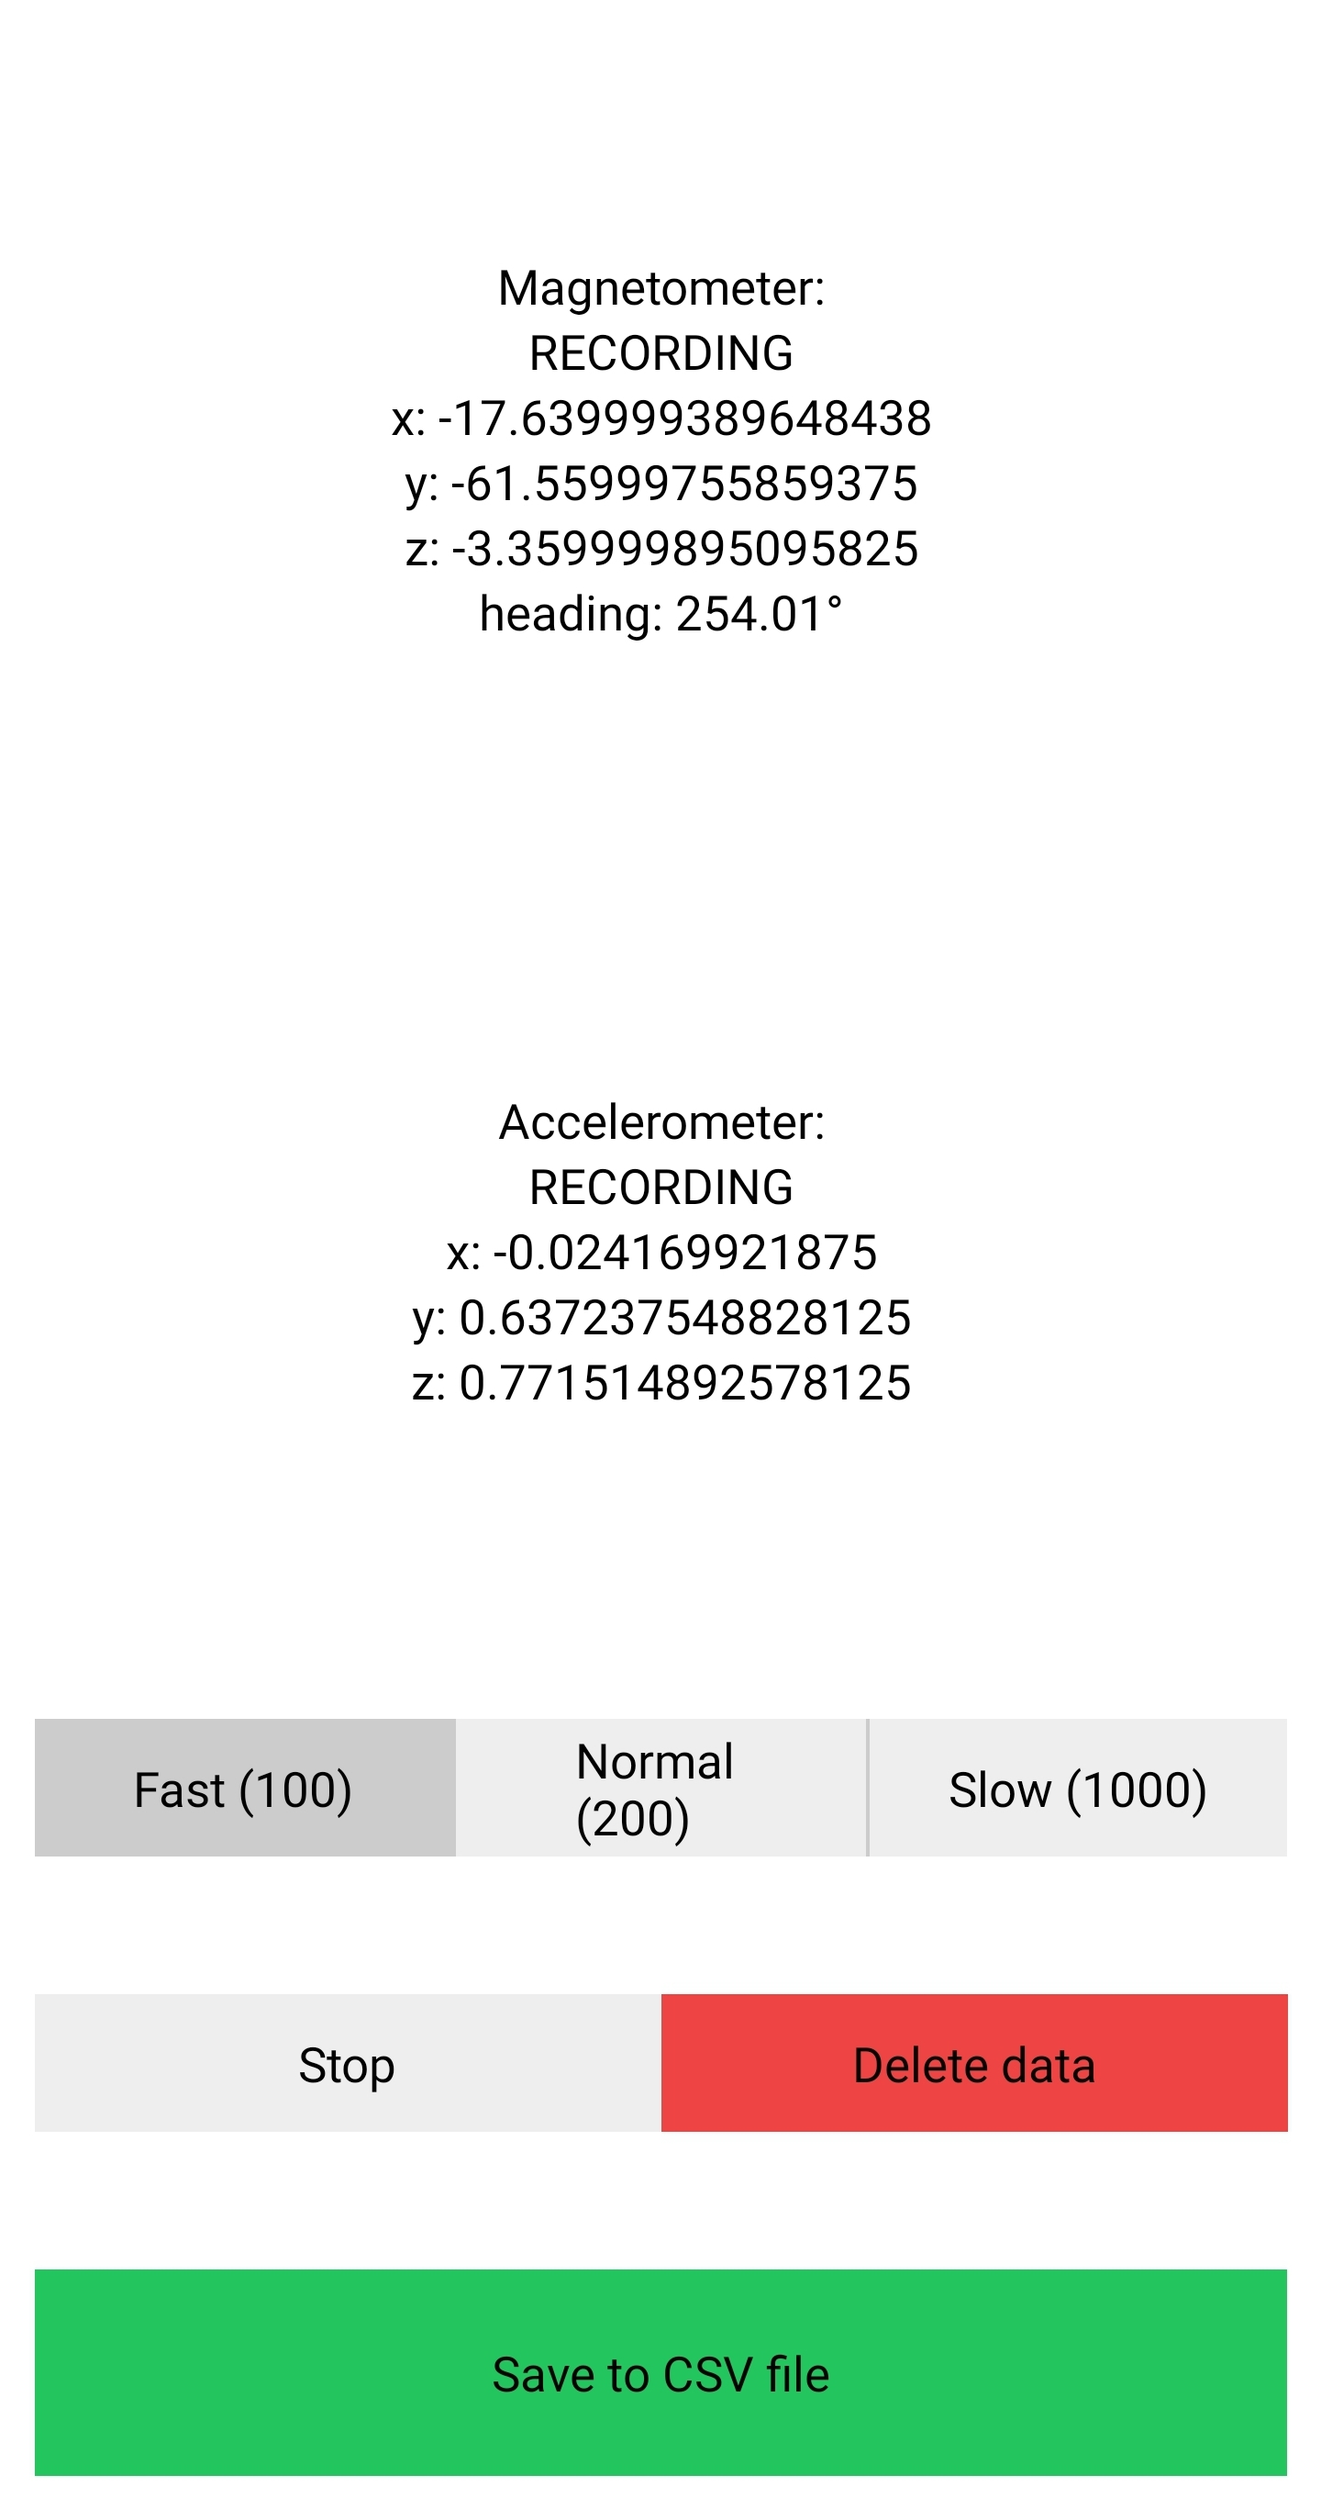
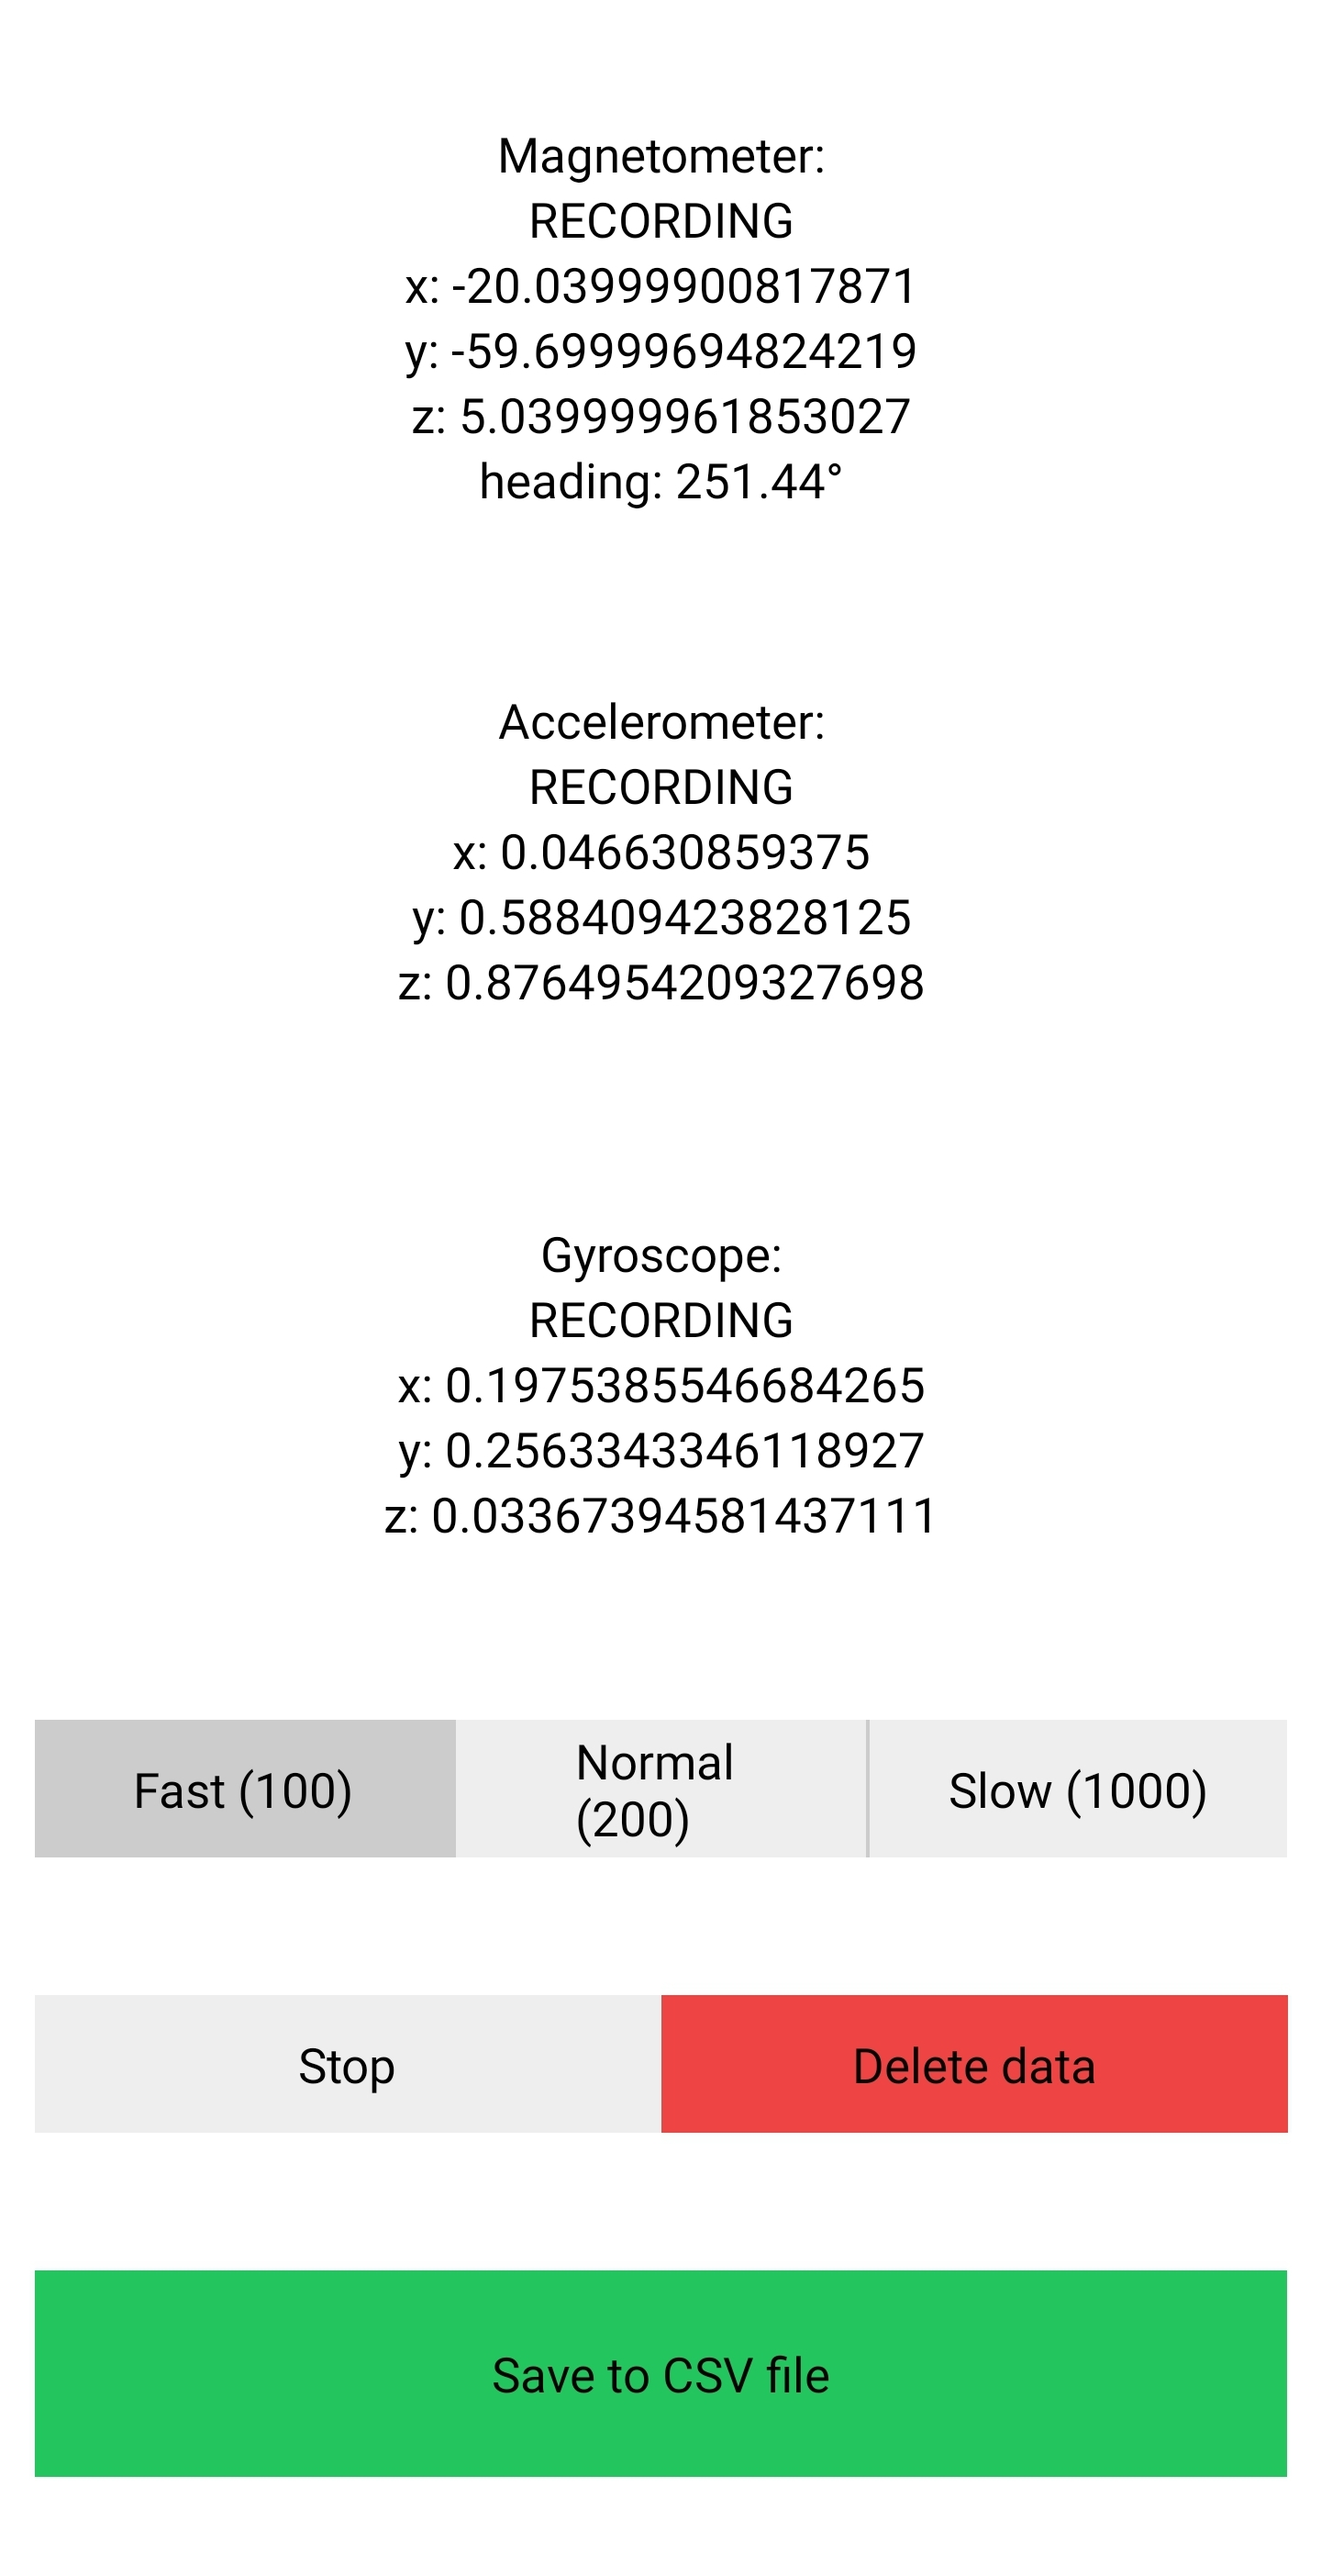
add gyroscope

diff --git a/components/HeadingComponent.tsx b/components/HeadingComponent.tsx
@@ -11,13 +11,17 @@ import {
   MagnetometerMeasurement,
   Accelerometer,
   AccelerometerMeasurement,
+  Gyroscope,
+  GyroscopeMeasurement,
 } from "expo-sensors";
 import { Subscription } from "expo-sensors/build/Pedometer";
 import * as FileSystem from "expo-file-system";
 
+type DataToSave<T> = Array<T & { timestamp: number }>;
+
 export default function Compass() {
   const [speed, setSpeed] = useState<number>(100);
-  const [accelerometerData, setaaccelerometerData] = useState({
+  const [accelerometerData, setAccelerometerData] = useState({
     x: 0,
     y: 0,
     z: 0,
@@ -27,23 +31,29 @@ export default function Compass() {
     y: 0,
     z: 0,
   });
+  const [gyroscopeData, setGyroscopeData] = useState({ x: 0, y: 0, z: 0 });
   const [subscriptions, setSubscriptions] = useState<{
     accelerometer: Subscription | null;
     magnetometer: Subscription | null;
+    gyroscope: Subscription | null;
   } | null>(null);
 
   const [magnetometerDataToSave, setMagnetometerDataToSave] = useState<
-    Array<MagnetometerMeasurement & { timestamp: number }>
+    DataToSave<MagnetometerMeasurement>
   >([]);
 
   const [accelerometerDataToSave, setAccelerometerDataToSave] = useState<
-    Array<AccelerometerMeasurement & { timestamp: number }>
+    DataToSave<AccelerometerMeasurement>
+  >([]);
+  const [gyroscopeDataToSave, setGyroscopeDataToSave] = useState<
+    DataToSave<GyroscopeMeasurement>
   >([]);
 
   const _updateSpeed = (speed: number) => {
-    setSpeed(speed);
     Accelerometer.setUpdateInterval(speed);
     Magnetometer.setUpdateInterval(speed);
+    Gyroscope.setUpdateInterval(speed);
+    setSpeed(speed);
   };
 
   const getHeading = (x: number, y: number): number => {
@@ -59,19 +69,33 @@ export default function Compass() {
         return [...prev, { ...data, timestamp: Date.now() }];
       });
     });
+
     const aSub = Accelerometer.addListener((data) => {
-      setaaccelerometerData(data);
+      setAccelerometerData(data);
       setAccelerometerDataToSave((prev) => {
         return [...prev, { ...data, timestamp: Date.now() }];
       });
     });
+
+    const gSub = Gyroscope.addListener((data) => {
+      setGyroscopeData(data);
+      setGyroscopeDataToSave((prev) => {
+        return [...prev, { ...data, timestamp: Date.now() }];
+      });
+    });
+
     _updateSpeed(100);
-    setSubscriptions({ magnetometer: mSub, accelerometer: aSub });
+    setSubscriptions({
+      magnetometer: mSub,
+      accelerometer: aSub,
+      gyroscope: gSub,
+    });
   };
 
   const _unsubscribe = () => {
     subscriptions?.magnetometer && subscriptions.magnetometer.remove();
     subscriptions?.accelerometer && subscriptions.accelerometer.remove();
+    subscriptions?.gyroscope && subscriptions.gyroscope.remove();
     setSubscriptions(null);
   };
 
@@ -96,14 +120,15 @@ export default function Compass() {
       );
 
       let linesToSave: string =
-        "Magnetometer_x, Magnetometer_y ,Magnetometer_z, Heading (angle), Accelerometer_x,Accelerometer_y, Accelerometer_z\n";
+        "Magnetometer_x, Magnetometer_y, Magnetometer_z, Heading (angle), Accelerometer_x, Accelerometer_y, Accelerometer_z, Gyroscope_x, Gyroscope_y, Gyroscope_z\n";
 
       // I know that timestamps for magnetometer and accelerometer would be different because it requrires some time to add listener to them both
       // that is why we are using index and pretend that timestamp is relatively the same
       for (const [index, mLine] of magnetometerDataToSave.entries()) {
         const aLine = accelerometerDataToSave[index];
+        const gLine = gyroscopeDataToSave[index];
         const heading = getHeading(mLine.x, mLine.y);
-        const newLine = `${mLine.x}, ${mLine.y}, ${mLine.z}, ${heading}, ${aLine?.x}, ${aLine?.y}, ${aLine?.z}\n`;
+        const newLine = `${mLine.x}, ${mLine.y}, ${mLine.z}, ${heading}, ${aLine?.x}, ${aLine?.y}, ${aLine?.z}, ${gLine.x}, ${gLine.y}, ${gLine.z}\n`;
         linesToSave = linesToSave + newLine;
       }
       await FileSystem.writeAsStringAsync(uri, linesToSave);
@@ -145,6 +170,16 @@ export default function Compass() {
         <Text style={styles.text}>x: {accelerometerData.x}</Text>
         <Text style={styles.text}>y: {accelerometerData.y}</Text>
         <Text style={styles.text}>z: {accelerometerData.z}</Text>
+      </View>
+
+      <View style={styles.container}>
+        <Text style={styles.text}>Gyroscope:</Text>
+        <Text style={styles.text}>
+          {subscriptions?.gyroscope ? "RECORDING" : "NOT RECORDING"}
+        </Text>
+        <Text style={styles.text}>x: {gyroscopeData.x}</Text>
+        <Text style={styles.text}>y: {gyroscopeData.y}</Text>
+        <Text style={styles.text}>z: {gyroscopeData.z}</Text>
       </View>
 
       <View style={styles.buttonContainer}>

diff --git a/README.md b/README.md
@@ -1,4 +1,5 @@
-Android app made with [Expo](https://expo.dev/) to collect data from sensors and export it to CSV file
+Android app made with [Expo](https://expo.dev/) to collect data from sensors and export it to CSV file. 
+Data is collected from accelerometer, magnetometer and gyroscope.
 
 ## Screenshot
 
@@ -6,10 +7,26 @@ Android app made with [Expo](https://expo.dev/) to collect data from sensors and
 
 ## How to build .apk
 
-run the following commands
+run the following commands to open up an app using local server provided by Expo Go
 
-```properties
+```bash
+git clone https://github.com/3sbi/sensor-scraper-expo-ts.git
+cd ./sensor-scraper-expo-ts
 npm install
-npm run prebuild
-npm run build:android
+npm run start
 ```
+
+then open up device emulator in Android Studio and run the following command:
+
+```bash
+npx expo run:android --variant debug
+```
+
+To build it use expo-cli (you will need an expo account):
+
+```bash
+npm install --global eas-cli
+sudo eas build -p android --profile preview
+```
+
+It can be built locally using android studio emalator and react-native, but it doesn't work properly for me because of expo packages that crash the build
